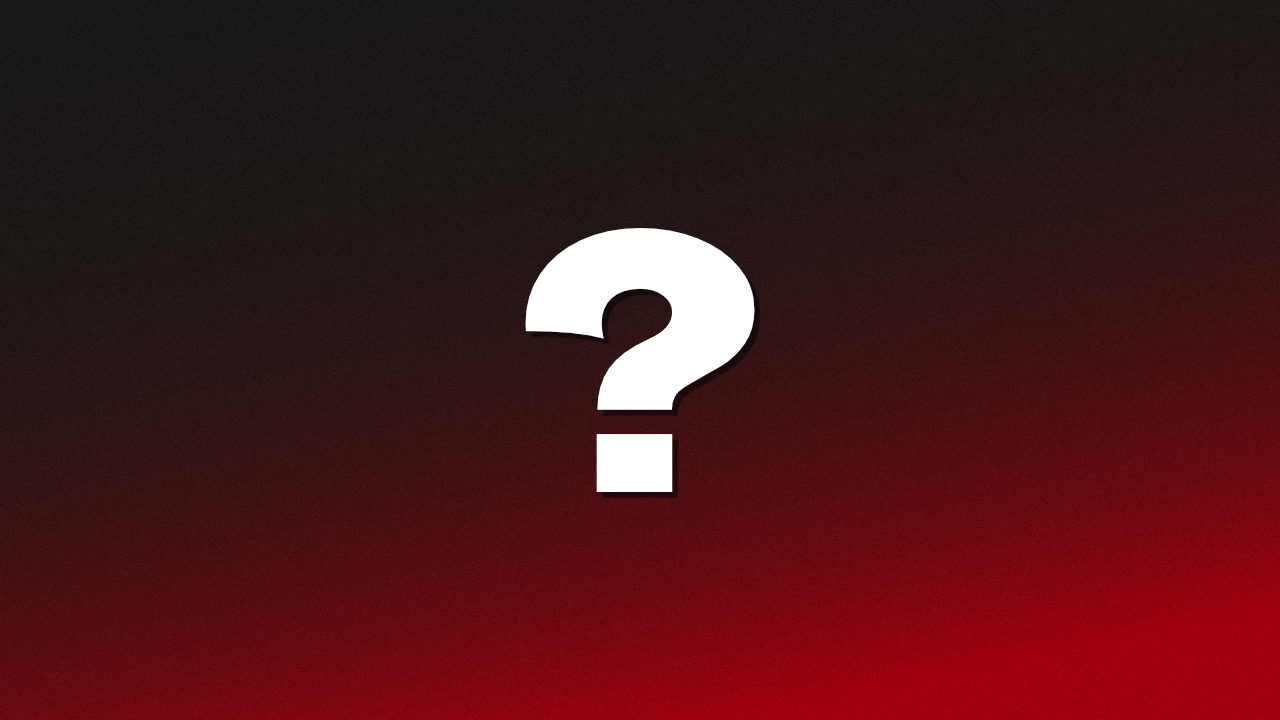
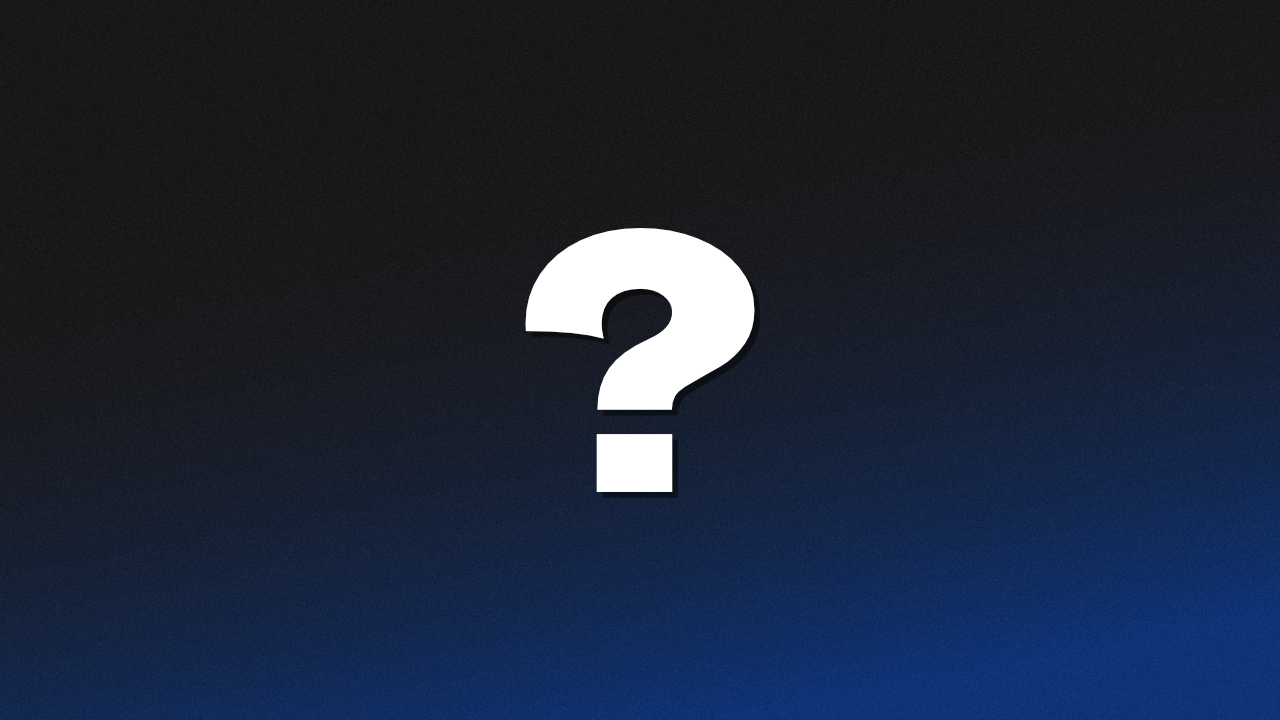
Switch around accent colors

diff --git a/src/graphics/pages/gameplay/components/Scoreboard.vue b/src/graphics/pages/gameplay/components/Scoreboard.vue
@@ -160,6 +160,13 @@ export default defineComponent({
                 height: 100%;
                 overflow: hidden;
                 border-radius: 4px;
+                background:
+                    linear-gradient(185deg, transparent 0%, transparent 60%, rgba(255, 255, 255, 0.05) 60%, rgba(255, 255, 255, 0.05) 100%),
+                    linear-gradient(0deg, #09224F 0%, #0E357A 100%);
+
+                .team-score {
+                    background: linear-gradient(175deg, #00074A 0%, #00074A 50%, #000536 50%, #000536 100%);
+                }
 
                 .score-color-wrapper {
                     display: flex;
@@ -186,14 +193,13 @@ export default defineComponent({
                         &:after {
                             content: '';
                             width: 100%;
-                            height: 100%;
+                            height: 50%;
                             position: absolute;
                             left: 0;
-                            top: 0;
+                            bottom: 0;
                             border-radius: 0 4px 4px 0;
                             background-color: rgba(0, 0, 0, 0.25);
                             mix-blend-mode: overlay;
-                            clip-path: polygon(0 50%, 100% 50%, 100% 100%, 0% 100%);
                         }
                     }
                 }
@@ -216,34 +222,6 @@ export default defineComponent({
                     font-size: 15px;
                     margin-bottom: -8px;
                 }
-
-                &.team-alpha {
-                    background: linear-gradient(
-                        70deg,
-                        #805628 0%,
-                        #6B451A 10%,
-                        #55391A 15%,
-                        #C1742C 15%,
-                        #CF9762 100%);
-
-                    .team-score {
-                        background: linear-gradient(175deg, #2E261C 0%, #2E261C 50%, #1E170C 50%, #1E170C 100%);
-                    }
-                }
-
-                &.team-bravo {
-                    background: linear-gradient(
-                        110deg,
-                        #3B476C 0%,
-                        #2F3956 10%,
-                        #232A40 15%,
-                        #5643B9 15%,
-                        #6F60BF 100%);
-
-                    .team-score {
-                        background: linear-gradient(175deg, #23252B 0%, #23252B 50%, #14141B 50%, #14141B 100%);
-                    }
-                }
             }
         }
     }
@@ -252,7 +230,7 @@ export default defineComponent({
         margin-top: 2px;
         height: 38px;
         border-radius: 4px;
-        background-color: #1A1816;
+        background-color: #111;
 
         > .flavor-text {
             font-size: 24px;

diff --git a/src/graphics/styles/constants.scss b/src/graphics/styles/constants.scss
@@ -1,13 +1,13 @@
 $default-border-radius: 4px;
 
 $text-color: #F3F3F3;
-$text-background: #1A1816;
-$text-background-alpha: rgba(26, 24, 22, 0.95);
-$text-background-alpha-50: rgba(26, 24, 22, 0.5);
+$text-background: #111;
+$text-background-alpha: rgba(17, 17, 17, 0.95);
+$text-background-alpha-50: rgba(17, 17, 17, 0.5);
 $text-background-secondary-alpha: rgba(51, 51, 51, 0.9);
 $drop-shadow-color: rgba(255, 255, 255, 0.2);
 
-$accent: #EC0A24;
+$accent: #0E3377;
 
 @mixin striped-background($stripe-color-1: rgba(21, 21, 21, 0.99), $stripe-color-2: rgba(14, 14, 14, 0.99)) {
     background-image: linear-gradient(
@@ -31,12 +31,12 @@ $accent: #EC0A24;
 }
 
 @mixin container-border {
-    border: 1px solid rgba(236, 10, 36, 0.5);
+    border: 1px solid rgba(14, 51, 119, 0.5);
 }
 
 @mixin red-gradient-bg($direction) {
     background: linear-gradient(
             $direction,
-            #FD6165 0%,
-            #A1000E 100%)
+            #113D8F 0%,
+            #0A2250 100%)
 }
